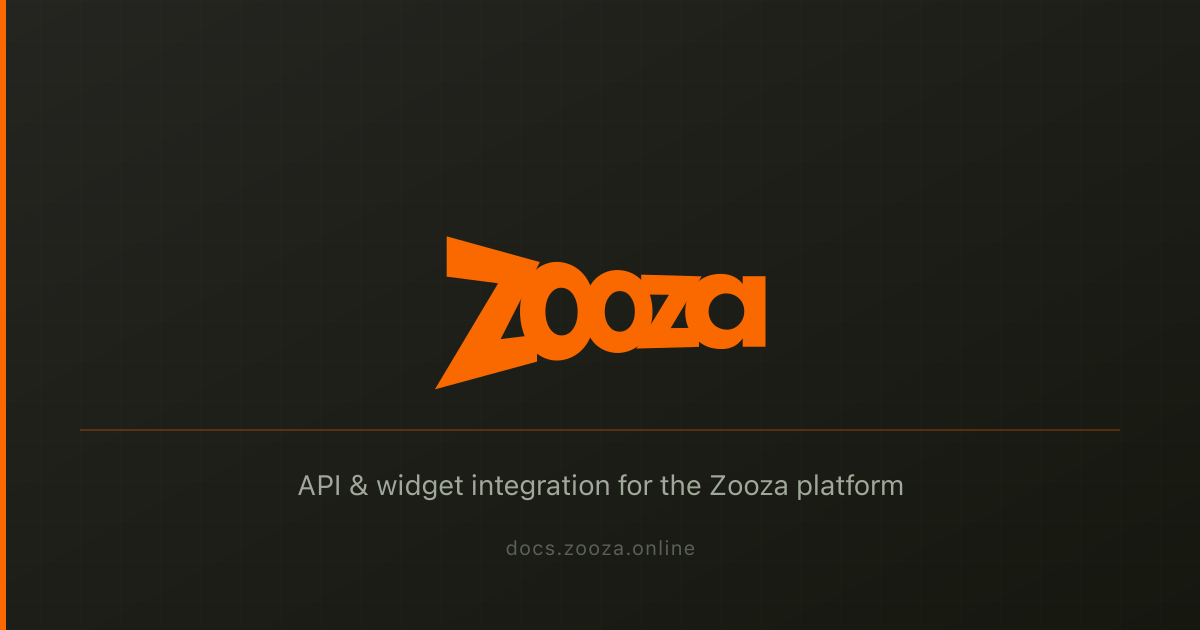
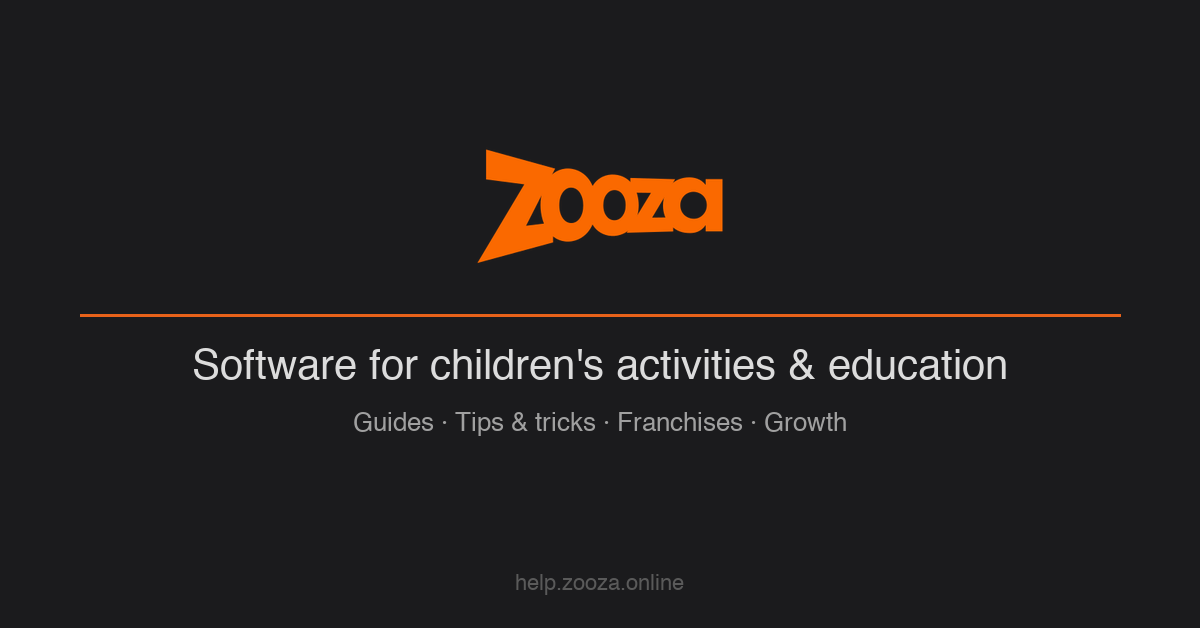
update social card and add staging noindex flag
- Replace social-card.png: new image for help.zooza.online with updated tagline (children's activities & education) and correct URL
- Add --staging flag to build_docusaurus.py: generates robots.txt with Disallow:/, noindex/nofollow meta, disables sitemap + gtag
- Update staging workflow to pass --staging to the export script

diff --git a/scripts/export/build_docusaurus.py b/scripts/export/build_docusaurus.py
@@ -226,13 +226,29 @@ _PACKAGE_JSON = {
     },
 }
 
-_DOCUSAURUS_CONFIG = """\
+def _make_docusaurus_config(staging: bool = False) -> str:
+    sitemap_block = "" if staging else """\
+        sitemap: {
+          changefreq: 'weekly',
+          priority: 0.7,
+          ignorePatterns: ['/tags/**'],
+          filename: 'sitemap.xml',
+        },
+"""
+    robots_content = "noindex, nofollow" if staging else "index, follow"
+    gtag_plugin = "" if staging else """\
+    ['@docusaurus/plugin-google-gtag', {
+      trackingID: 'G-YBV84Z62T5',
+      anonymizeIP: false,
+    }],
+"""
+    return f"""\
 // @ts-check
 // Auto-generated by scripts/export/build_docusaurus.py — do not edit directly.
-const { themes: prismThemes } = require('prism-react-renderer');
+const {{ themes: prismThemes }} = require('prism-react-renderer');
 
-/** @type {import('@docusaurus/types').Config} */
-const config = {
+/** @type {{import('@docusaurus/types').Config}} */
+const config = {{
   title: 'Zooza Help',
   tagline: 'Help centre for Zooza — the go-to platform for children\\'s activity businesses.',
   favicon: 'img/favicon.ico',
@@ -243,133 +259,125 @@ const config = {
   projectName: 'zooza-help',
 
   onBrokenLinks: 'warn',
-  markdown: {
-    hooks: {
+  markdown: {{
+    hooks: {{
       onBrokenMarkdownLinks: 'warn',
-    },
-  },
+    }},
+  }},
 
-  i18n: {
+  i18n: {{
     defaultLocale: 'en',
     locales: ['en'],
-  },
+  }},
 
   presets: [
     [
       'classic',
-      /** @type {import('@docusaurus/preset-classic').Options} */
-      ({
-        docs: {
+      /** @type {{import('@docusaurus/preset-classic').Options}} */
+      ({{
+        docs: {{
           sidebarPath: require.resolve('./sidebars.js'),
           // routeBasePath '/' means docs are served from the root, like api-docs
           routeBasePath: '/',
           editUrl: undefined,
-        },
+        }},
         blog: false,
-        theme: {
+        theme: {{
           customCss: require.resolve('./src/css/custom.css'),
-        },
-        sitemap: {
-          changefreq: 'weekly',
-          priority: 0.7,
-          ignorePatterns: ['/tags/**'],
-          filename: 'sitemap.xml',
-        },
-      }),
+        }},
+        {sitemap_block}
+      }}),
     ],
   ],
 
   plugins: [
     // plugin-client-redirects is available for future use (production-only).
     // Root redirect is handled by src/pages/index.js (works in dev + prod).
-    // ['@docusaurus/plugin-client-redirects', { redirects: [] }],
-    ['@docusaurus/plugin-google-gtag', {
-      trackingID: 'G-YBV84Z62T5',
-      anonymizeIP: false,
-    }],
+    // ['@docusaurus/plugin-client-redirects', {{ redirects: [] }}],
+    {gtag_plugin}
   ],
 
   themeConfig:
-    /** @type {import('@docusaurus/preset-classic').ThemeConfig} */
-    ({
+    /** @type {{import('@docusaurus/preset-classic').ThemeConfig}} */
+    ({{
       image: 'img/social-card.png',
 
       metadata: [
-        { name: 'description', content: 'Official help centre for Zooza — the go-to platform for children\\'s activity businesses. Guides for programmes, bookings, payments, attendance, and more.' },
-        { property: 'og:type', content: 'website' },
-        { property: 'og:site_name', content: 'Zooza Help' },
-        { name: 'twitter:card', content: 'summary_large_image' },
-        { name: 'robots', content: 'index, follow' },
+        {{ name: 'description', content: 'Official help centre for Zooza — the go-to platform for children\\'s activity businesses. Guides for programmes, bookings, payments, attendance, and more.' }},
+        {{ property: 'og:type', content: 'website' }},
+        {{ property: 'og:site_name', content: 'Zooza Help' }},
+        {{ name: 'twitter:card', content: 'summary_large_image' }},
+        {{ name: 'robots', content: '{robots_content}' }},
       ],
 
-      navbar: {
+      navbar: {{
         title: 'Zooza Help',
-        logo: {
+        logo: {{
           alt: 'Zooza',
           src: 'img/logo.svg',
           srcDark: 'img/logo-dark.svg',
-        },
+        }},
         items: [
-          { to: '/category/programmes', label: 'Programmes', position: 'left' },
-          { to: '/category/classes', label: 'Classes', position: 'left' },
-          { to: '/category/bookings', label: 'Bookings', position: 'left' },
-          { to: '/category/clients', label: 'Clients', position: 'left' },
-          { to: '/category/payments', label: 'Payments', position: 'left' },
-          { to: '/category/settings', label: 'Settings', position: 'left' },
-          {
+          {{ to: '/category/programmes', label: 'Programmes', position: 'left' }},
+          {{ to: '/category/classes', label: 'Classes', position: 'left' }},
+          {{ to: '/category/bookings', label: 'Bookings', position: 'left' }},
+          {{ to: '/category/clients', label: 'Clients', position: 'left' }},
+          {{ to: '/category/payments', label: 'Payments', position: 'left' }},
+          {{ to: '/category/settings', label: 'Settings', position: 'left' }},
+          {{
             href: 'https://www.zooza.online/access/',
             label: 'Go to app',
             position: 'right',
-          },
+          }},
         ],
-      },
+      }},
 
-      footer: {
+      footer: {{
         style: 'dark',
         links: [
-          {
+          {{
             title: 'Help topics',
             items: [
-              { label: 'Programmes', to: '/category/programmes' },
-              { label: 'Classes', to: '/category/classes' },
-              { label: 'Calendar', to: '/category/calendar' },
-              { label: 'Clients', to: '/category/clients' },
-              { label: 'Payments', to: '/category/payments' },
-              { label: 'Settings', to: '/category/settings' },
+              {{ label: 'Programmes', to: '/category/programmes' }},
+              {{ label: 'Classes', to: '/category/classes' }},
+              {{ label: 'Calendar', to: '/category/calendar' }},
+              {{ label: 'Clients', to: '/category/clients' }},
+              {{ label: 'Payments', to: '/category/payments' }},
+              {{ label: 'Settings', to: '/category/settings' }},
             ],
-          },
-          {
+          }},
+          {{
             title: 'More',
             items: [
-              { label: 'Zooza App', href: 'https://www.zooza.online/access/' },
-              { label: 'Zooza Website', href: 'https://zooza.online' },
-              { label: 'Support', href: 'mailto:support@zooza.online' },
+              {{ label: 'Zooza App', href: 'https://www.zooza.online/access/' }},
+              {{ label: 'Zooza Website', href: 'https://zooza.online' }},
+              {{ label: 'Support', href: 'mailto:support@zooza.online' }},
             ],
-          },
+          }},
         ],
-        copyright: `Copyright © ${new Date().getFullYear()} Zooza. All rights reserved.`,
-      },
+        copyright: `Copyright © ${{new Date().getFullYear()}} Zooza. All rights reserved.`,
+      }},
 
-      prism: {
+      prism: {{
         theme: prismThemes.github,
         darkTheme: prismThemes.dracula,
-      },
+      }},
 
-      colorMode: {
+      colorMode: {{
         defaultMode: 'light',
         disableSwitch: false,
         respectPrefersColorScheme: true,
-      },
+      }},
 
-      algolia: {
+      algolia: {{
         appId: 'ANY9EAZRWT',
         apiKey: 'd710a6679587ad2816454d8c9d611bd6',
         indexName: 'Zooza Help',
         contextualSearch: true,
         searchPagePath: 'search',
-      },
-    }),
-};
+      }},
+    }}),
+}};
 
 module.exports = config;
 """
@@ -622,8 +630,8 @@ def _write_package_json(out: Path) -> None:
     )
 
 
-def _write_docusaurus_config(out: Path) -> None:
-    (out / "docusaurus.config.js").write_text(_DOCUSAURUS_CONFIG, encoding="utf-8")
+def _write_docusaurus_config(out: Path, staging: bool = False) -> None:
+    (out / "docusaurus.config.js").write_text(_make_docusaurus_config(staging=staging), encoding="utf-8")
 
 
 def _write_sidebars(out: Path) -> None:
@@ -754,33 +762,40 @@ def _write_custom_css(out: Path) -> None:
     (out / "src" / "pages" / "index.module.css").write_text(_HOMEPAGE_CSS, encoding="utf-8")
 
 
-def _write_static_files(out: Path) -> None:
+def _write_static_files(out: Path, staging: bool = False) -> None:
     static = out / "static"
     static.mkdir(exist_ok=True)
 
-    (static / "robots.txt").write_text(
-        "User-agent: *\n"
-        "Allow: /\n"
-        "\n"
-        "# AI crawlers — explicitly allowed\n"
-        "User-agent: GPTBot\n"
-        "Allow: /\n"
-        "\n"
-        "User-agent: ChatGPT-User\n"
-        "Allow: /\n"
-        "\n"
-        "User-agent: ClaudeBot\n"
-        "Allow: /\n"
-        "\n"
-        "User-agent: PerplexityBot\n"
-        "Allow: /\n"
-        "\n"
-        "User-agent: Googlebot\n"
-        "Allow: /\n"
-        "\n"
-        "Sitemap: https://help.zooza.online/sitemap.xml\n",
-        encoding="utf-8",
-    )
+    if staging:
+        robots_content = (
+            "# Staging environment — not for public indexing\n"
+            "User-agent: *\n"
+            "Disallow: /\n"
+        )
+    else:
+        robots_content = (
+            "User-agent: *\n"
+            "Allow: /\n"
+            "\n"
+            "# AI crawlers — explicitly allowed\n"
+            "User-agent: GPTBot\n"
+            "Allow: /\n"
+            "\n"
+            "User-agent: ChatGPT-User\n"
+            "Allow: /\n"
+            "\n"
+            "User-agent: ClaudeBot\n"
+            "Allow: /\n"
+            "\n"
+            "User-agent: PerplexityBot\n"
+            "Allow: /\n"
+            "\n"
+            "User-agent: Googlebot\n"
+            "Allow: /\n"
+            "\n"
+            "Sitemap: https://help.zooza.online/sitemap.xml\n"
+        )
+    (static / "robots.txt").write_text(robots_content, encoding="utf-8")
 
     (static / "llms.txt").write_text(
         "# Zooza Help\n"
@@ -823,7 +838,7 @@ def _write_readme(out: Path) -> None:
 # ---------------------------------------------------------------------------
 
 
-def build_docusaurus(dry_run: bool = False, clean: bool = False) -> dict:
+def build_docusaurus(dry_run: bool = False, clean: bool = False, staging: bool = False) -> dict:
     """Export the KB to a Docusaurus project. Returns stats dict."""
 
     # --- Collect and group docs ---
@@ -957,10 +972,10 @@ def build_docusaurus(dry_run: bool = False, clean: bool = False) -> dict:
 
     # --- Write config files ---
     _write_package_json(OUTPUT_DIR)
-    _write_docusaurus_config(OUTPUT_DIR)
+    _write_docusaurus_config(OUTPUT_DIR, staging=staging)
     _write_sidebars(OUTPUT_DIR)
     _write_custom_css(OUTPUT_DIR)
-    _write_static_files(OUTPUT_DIR)
+    _write_static_files(OUTPUT_DIR, staging=staging)
     _write_gitignore(OUTPUT_DIR)
     _write_readme(OUTPUT_DIR)
 
@@ -976,7 +991,8 @@ def main() -> None:
     logging.basicConfig(level=logging.INFO, format="%(levelname)s: %(message)s")
     dry_run = "--dry-run" in sys.argv
     clean = "--clean" in sys.argv
-    stats = build_docusaurus(dry_run=dry_run, clean=clean)
+    staging = "--staging" in sys.argv
+    stats = build_docusaurus(dry_run=dry_run, clean=clean, staging=staging)
 
     if dry_run:
         print(f"DRY RUN: {stats['docs']} docs in {stats['areas']} areas")
